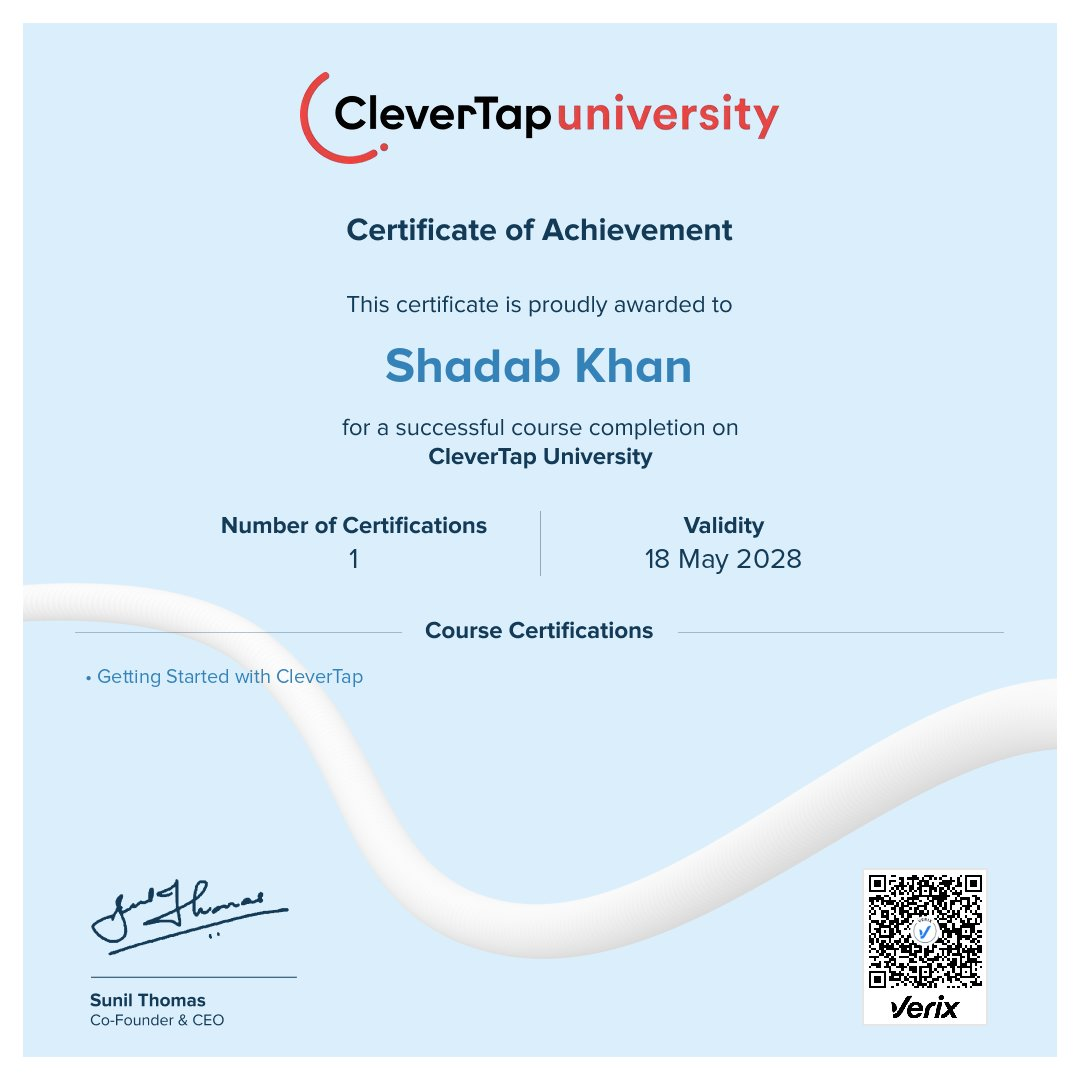
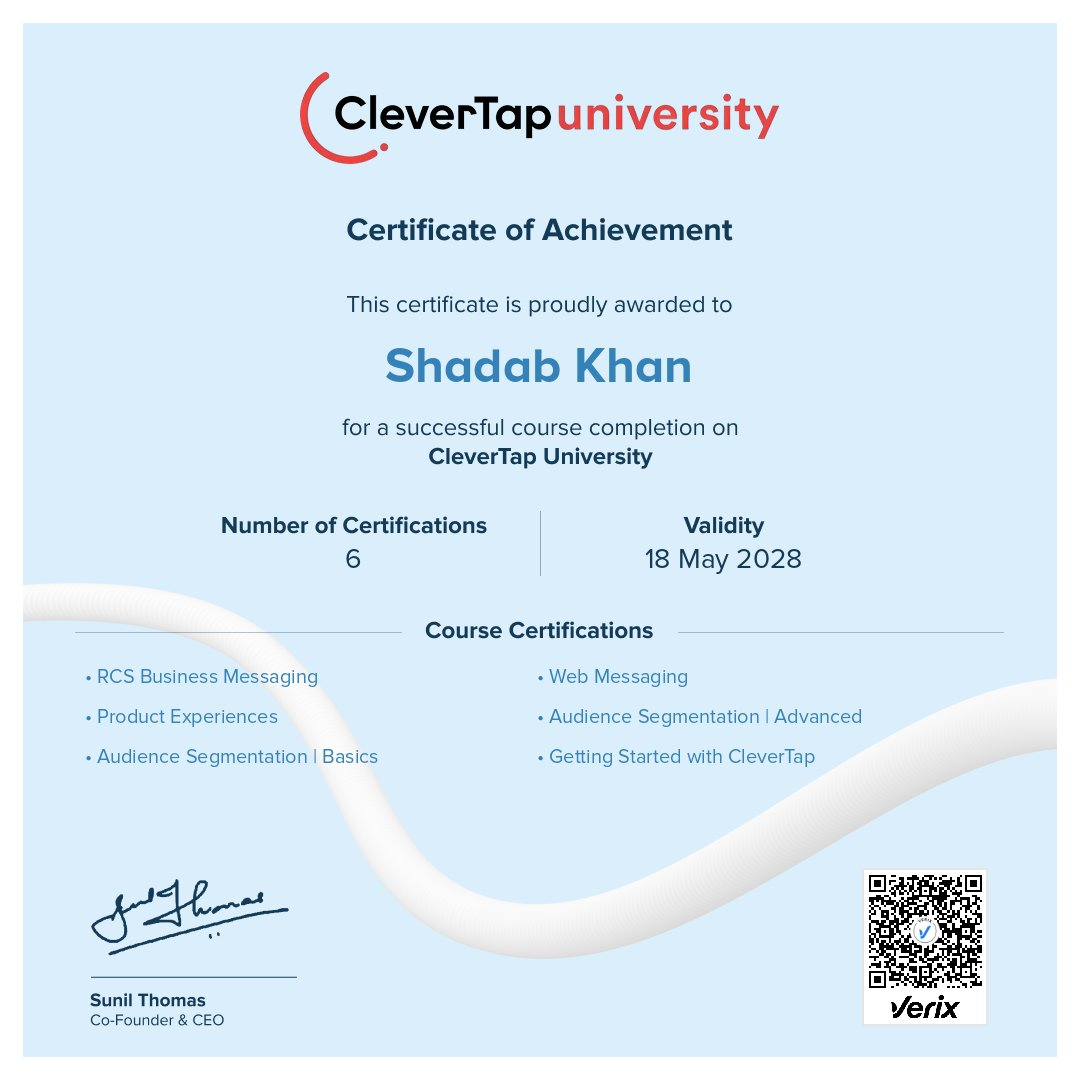
Show all 6 CleverTap University course certifications
Update the certificate image to the 6-course version and list each
course as a chip under the credential. Bump CSS/JS cache to v=22.

Claude-Session: https://claude.ai/code/session_015uom4S1E2dMZZYUSt4ywLC

diff --git a/index.html b/index.html
@@ -131,7 +131,7 @@
   <!-- The ?v= number busts browser caches. BUMP IT (v=8, v=9 …) every time
        you edit styles.css or script.js, otherwise returning visitors keep
        running the old cached files. -->
-  <link rel="stylesheet" href="styles.css?v=21">
+  <link rel="stylesheet" href="styles.css?v=22">
   <!-- Real icon files (not a data: URI) so Google can show the favicon in
        search results. favicon-48.png is the size Google asks for. -->
   <link rel="icon" href="/favicon.ico" sizes="48x48">
@@ -945,9 +945,18 @@
         </li>
 
         <li class="cred reveal">
-          <span class="cred-name">Getting Started with CleverTap <span class="cred-issuer mono">CleverTap University</span></span>
+          <span class="cred-name">CleverTap University — 6 course certifications <span class="cred-issuer mono">CleverTap · valid to May 2028</span>
+            <span class="cred-courses">
+              <span>Audience Segmentation · Advanced</span>
+              <span>Audience Segmentation · Basics</span>
+              <span>Product Experiences</span>
+              <span>RCS Business Messaging</span>
+              <span>Web Messaging</span>
+              <span>Getting Started with CleverTap</span>
+            </span>
+          </span>
           <span class="cred-meta">
-            <a class="btn btn-solid cred-view" href="certs/clevertap-university-2026.jpg" target="_blank" rel="noopener" data-cert-title="CleverTap University — Getting Started with CleverTap, certificate of achievement">view certificate ↗</a>
+            <a class="btn btn-solid cred-view" href="certs/clevertap-university-2026.jpg" target="_blank" rel="noopener" data-cert-title="CleverTap University — certificate of achievement, 6 course certifications">view certificate ↗</a>
             <a class="btn btn-line cred-verify" href="https://www.verix.io/credential/46caec87-4e18-46b3-b5f1-2bcb463237f5" target="_blank" rel="noopener noreferrer">verify certificate ↗</a>
           </span>
         </li>
@@ -1085,6 +1094,6 @@
   </footer>
 
   <!-- Bump ?v= together with the stylesheet whenever you edit this file. -->
-  <script src="script.js?v=21"></script>
+  <script src="script.js?v=22"></script>
 </body>
 </html>

diff --git a/styles.css b/styles.css
@@ -984,6 +984,15 @@ main { position: relative; z-index: 1; }
   text-transform: uppercase;
   color: var(--muted);
 }
+/* optional list of courses under a credential (e.g. CleverTap University) */
+.cred-name { flex: 1 1 22rem; }
+.cred-courses { display: flex; flex-wrap: wrap; gap: 0.4rem; margin-top: 0.7rem; }
+.cred-courses span {
+  font-size: 0.78rem; line-height: 1.3;
+  padding: 0.25rem 0.6rem;
+  border: 1px solid var(--line); border-radius: 999px;
+  color: var(--muted);
+}
 /* Credential actions reuse the site's main buttons:
    "view certificate" = .btn-solid (like "View case studies"),
    "verify certificate" = .btn-line (like "Get in touch"). */

diff --git a/README.md b/README.md
@@ -68,7 +68,7 @@ verification page.
 
 **Shown now (with proof):** GrowthX Product & Growth Program, The Product
 Folks Product-Led Growth 2023, MoEngage CELP 2023, CleverTap University
-(Getting Started with CleverTap, 2026).
+(6 course certifications, 2026; courses listed as chips under the name).
 
 **Hidden until there is proof:** Klaviyo, Google Analytics and Braze sit inside an HTML comment at the end of the credentials list in
 `index.html`. To show one, move it out of the comment, drop its certificate
@@ -77,7 +77,7 @@ image into `certs/`, point its `cred-view` link at it, and add a
 
 ## ⚠ Bump the cache version after editing CSS/JS
 
-`index.html` loads `styles.css?v=N` and `script.js?v=N` (both currently `21`).
+`index.html` loads `styles.css?v=N` and `script.js?v=N` (both currently `22`).
 **Every time you edit either file, increase that number** in both places, or
 returning visitors keep running the old cached files.
 
